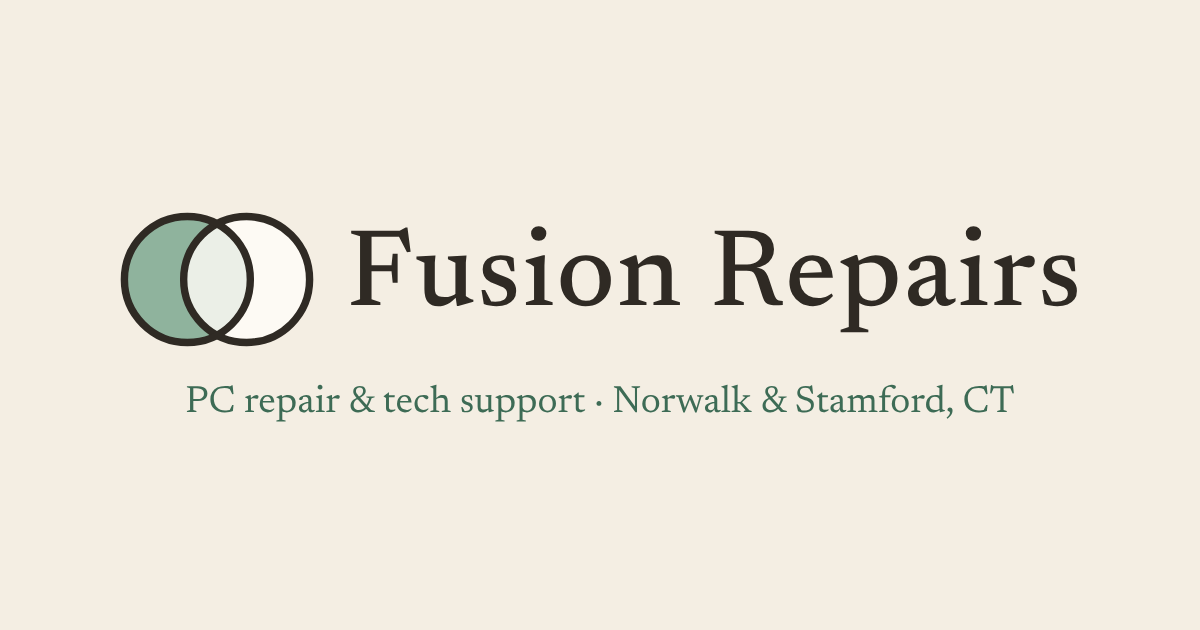
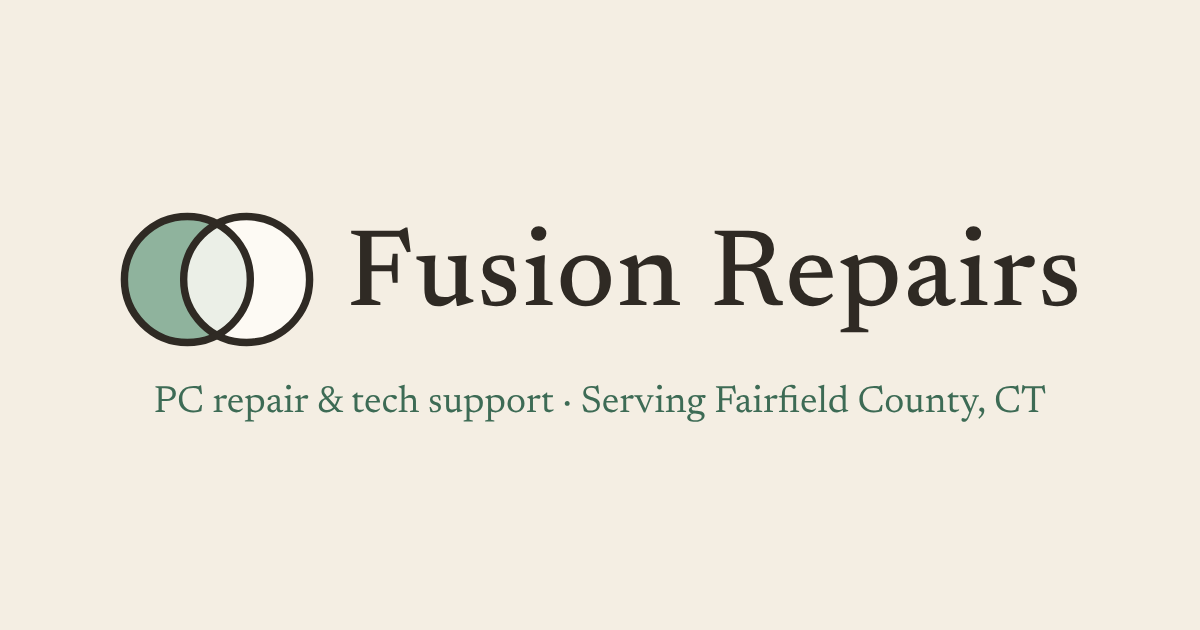
Service area: Serving the Fairfield County area
Claude-Session: https://claude.ai/code/session_01FtqhhEdzPdqTdixDAkNEpZ

Changed region(s): [[0.1233, 0.6032, 0.8633, 0.6635]]

diff --git a/src/site.config.ts b/src/site.config.ts
@@ -70,9 +70,10 @@ export const site = {
    */
   phone: '',
 
+  /** Towns where pickup / drop-off happens */
   serviceArea: ['Norwalk', 'Stamford'] as const,
-  /** Shown wherever the site describes where you work */
-  serviceAreaText: 'Stamford, Norwalk & surrounding areas',
+  /** Shown wherever the site describes where you work, e.g. "Serving the Fairfield County area" */
+  serviceAreaText: 'the Fairfield County area',
   state: 'CT',
 
   /** Show "Se habla español" and the Spanish text button */
@@ -136,9 +137,9 @@ export const site = {
   /** Prefilled email drafts. Brackets are for the customer to fill in. */
   messages: {
     default:
-      "Hi Fusion Repairs, I'd like help with my [device/model]. The issue is [short description]. I'm near [Norwalk/Stamford].",
+      "Hi Fusion Repairs, I'd like help with my [device/model]. The issue is [short description]. I'm in [town].",
     spanish:
-      'Hola Fusion Repairs, me gustaría ayuda con mi [dispositivo/modelo]. El problema es [descripción breve]. Estoy cerca de [Norwalk/Stamford].',
+      'Hola Fusion Repairs, me gustaría ayuda con mi [dispositivo/modelo]. El problema es [descripción breve]. Estoy en [ciudad].',
     buyback:
       "Hi Fusion Repairs, I have a [device/model] I'd like to sell. Condition: [condition]. I've attached a few photos.",
   },
@@ -161,7 +162,7 @@ export const site = {
       ],
       price: null,
       message:
-        "Hi Fusion Repairs, I need help with my [PC/laptop model]. The issue is [short description]. I'm near [Norwalk/Stamford].",
+        "Hi Fusion Repairs, I need help with my [PC/laptop model]. The issue is [short description]. I'm in [town].",
       visible: true,
     },
     {
@@ -182,7 +183,7 @@ export const site = {
       includes: ['RAM, SSD & GPU upgrades', 'Part picking for your budget', 'Custom PC builds'],
       price: null,
       message:
-        "Hi Fusion Repairs, I'm interested in [an upgrade/a custom PC build]. Budget: [budget]. I'll mainly use it for [gaming/work/streaming]. I'm near [Norwalk/Stamford].",
+        "Hi Fusion Repairs, I'm interested in [an upgrade/a custom PC build]. Budget: [budget]. I'll mainly use it for [gaming/work/streaming]. I'm in [town].",
       visible: true,
     },
     {
@@ -192,7 +193,7 @@ export const site = {
       includes: ['Data transfer to a new phone (photos, contacts, messages)', 'Phone troubleshooting'],
       price: null,
       message:
-        "Hi Fusion Repairs, I'd like help with my [phone model]. I need [data transfer/troubleshooting]: [short description]. I'm near [Norwalk/Stamford].",
+        "Hi Fusion Repairs, I'd like help with my [phone model]. I need [data transfer/troubleshooting]: [short description]. I'm in [town].",
       visible: true,
     },
     {
@@ -201,7 +202,7 @@ export const site = {
       description: 'Dust buildup makes consoles run hot and loud. We open it up and clean it out.',
       price: 50,
       message:
-        "Hi Fusion Repairs, I'd like to book a ${price} console cleaning for my [PS5/Xbox model]. I'm near [Norwalk/Stamford].",
+        "Hi Fusion Repairs, I'd like to book a ${price} console cleaning for my [PS5/Xbox model]. I'm in [town].",
       visible: true,
     },
 
@@ -213,7 +214,7 @@ export const site = {
       price: 75,
       priceNote: 'local house call',
       message:
-        "Hi Fusion Repairs, I'd like a house call for [Wi-Fi/printer] setup. I'm in [Norwalk/Stamford].",
+        "Hi Fusion Repairs, I'd like a house call for [Wi-Fi/printer] setup. I'm in [town].",
       visible: false,
     },
     {
@@ -222,7 +223,7 @@ export const site = {
       description: "No picture? A damaged HDMI port is a common cause. Email us and we'll take a look.",
       price: null,
       message:
-        "Hi Fusion Repairs, I think my PS5 HDMI port needs repair. Model: [disc/digital/slim]. What's happening: [short description]. I'm near [Norwalk/Stamford].",
+        "Hi Fusion Repairs, I think my PS5 HDMI port needs repair. Model: [disc/digital/slim]. What's happening: [short description]. I'm in [town].",
       visible: false,
     },
     {
@@ -231,7 +232,7 @@ export const site = {
       description: "Tell us the model and what's broken.",
       price: null,
       message:
-        "Hi Fusion Repairs, I need my [phone model] repaired. The issue is [short description]. I'm near [Norwalk/Stamford].",
+        "Hi Fusion Repairs, I need my [phone model] repaired. The issue is [short description]. I'm in [town].",
       visible: false,
     },
   ] satisfies Service[] as Service[],
@@ -254,7 +255,7 @@ export const site = {
         idVerification: '[EDIT: e.g. "No ID needed" or "Valid ID required at pickup" — or leave empty]',
         ends: '',
         message:
-          "Hi Fusion Repairs, I'd like to use the 10% off first service offer. I need help with my [device/model]. The issue is [short description]. I'm near [Norwalk/Stamford].",
+          "Hi Fusion Repairs, I'd like to use the 10% off first service offer. I need help with my [device/model]. The issue is [short description]. I'm in [town].",
       },
       {
         id: 'holiday',
@@ -264,7 +265,7 @@ export const site = {
         idVerification: '',
         ends: '[EDIT: e.g. Ends Dec 31]',
         message:
-          "Hi Fusion Repairs, I saw the holiday deal. I'm interested in [custom PC build/console cleaning]. I'm near [Norwalk/Stamford].",
+          "Hi Fusion Repairs, I saw the holiday deal. I'm interested in [custom PC build/console cleaning]. I'm in [town].",
       },
     ] satisfies Promo[] as Promo[],
   },

diff --git a/index.html b/index.html
@@ -3,23 +3,23 @@
   <head>
     <meta charset="UTF-8" />
     <meta name="viewport" content="width=device-width, initial-scale=1.0, viewport-fit=cover" />
-    <title>Fusion Repairs | PC repair & tech support in Norwalk & Stamford, CT</title>
+    <title>Fusion Repairs | PC repair & tech support in Fairfield County, CT</title>
     <meta
       name="description"
-      content="Fusion Repairs: PC troubleshooting and repair, custom PC builds, phone data transfers, and $50 PS5 and Xbox cleaning in Norwalk and Stamford, CT. Email us to book. Se habla español."
+      content="Fusion Repairs: PC troubleshooting and repair, custom PC builds, phone data transfers, and $50 PS5 and Xbox cleaning across Fairfield County, CT, including Norwalk and Stamford. Email us to book. Se habla español."
     />
     <meta name="theme-color" content="#f4eee3" />
-    <meta property="og:title" content="Fusion Repairs | Norwalk & Stamford, CT" />
+    <meta property="og:title" content="Fusion Repairs | Fairfield County, CT" />
     <meta property="og:description" content="PC repair, custom builds, phone transfers, and $50 console cleaning. Email us to book." />
     <meta property="og:type" content="website" />
     <meta property="og:site_name" content="Fusion Repairs" />
     <meta property="og:url" content="https://fusionrepairs.net/" />
-    <meta property="og:image" content="https://fusionrepairs.net/og-image.png?v=2" />
+    <meta property="og:image" content="https://fusionrepairs.net/og-image.png?v=3" />
     <meta property="og:image:width" content="1200" />
     <meta property="og:image:height" content="630" />
     <meta property="og:image:alt" content="Fusion Repairs logo" />
     <meta name="twitter:card" content="summary_large_image" />
-    <meta name="twitter:image" content="https://fusionrepairs.net/og-image.png?v=2" />
+    <meta name="twitter:image" content="https://fusionrepairs.net/og-image.png?v=3" />
     <link rel="apple-touch-icon" href="/apple-touch-icon.png" />
     <link rel="icon" type="image/svg+xml" href="/favicon.svg" />
   </head>

diff --git a/src/pages/Other.tsx b/src/pages/Other.tsx
@@ -148,7 +148,7 @@ export function Contact() {
             <div className="card">
               <p className="label">Service area</p>
               <p>
-                {areaText}, {site.state}. Local pickup and drop-off by appointment. We email you the handoff details
+                Serving {areaText}, including Norwalk and Stamford. Local pickup and drop-off by appointment. We email you the handoff details
                 after you book.
               </p>
               <p className="label">We accept</p>

diff --git a/src/pages/Home.tsx b/src/pages/Home.tsx
@@ -8,7 +8,7 @@ import { YouTubeSection } from '../components/YouTube'
 import { BookingNotes, Steps, TeamGrid, BenchGallery, usePageTitle } from './shared'
 
 export function Home() {
-  usePageTitle(`${site.name} | PC repair & tech support in Norwalk & Stamford, ${site.state}`)
+  usePageTitle(`${site.name} | PC repair & tech support in Fairfield County, ${site.state}`)
   const offer = featuredService
   const builds = shownPhotos(site.photos.builds)
   const bench = shownPhotos(site.photos.bench)

diff --git a/src/components/Layout.tsx b/src/components/Layout.tsx
@@ -166,7 +166,7 @@ function Footer() {
           <p className="muted">
             {site.bio.headline}
             <br />
-            Serving {areaText}, {site.state}.
+            Serving {areaText}, including Norwalk &amp; Stamford.
             <br />
             Local pickup and drop-off by appointment.
             {site.spanish && (
